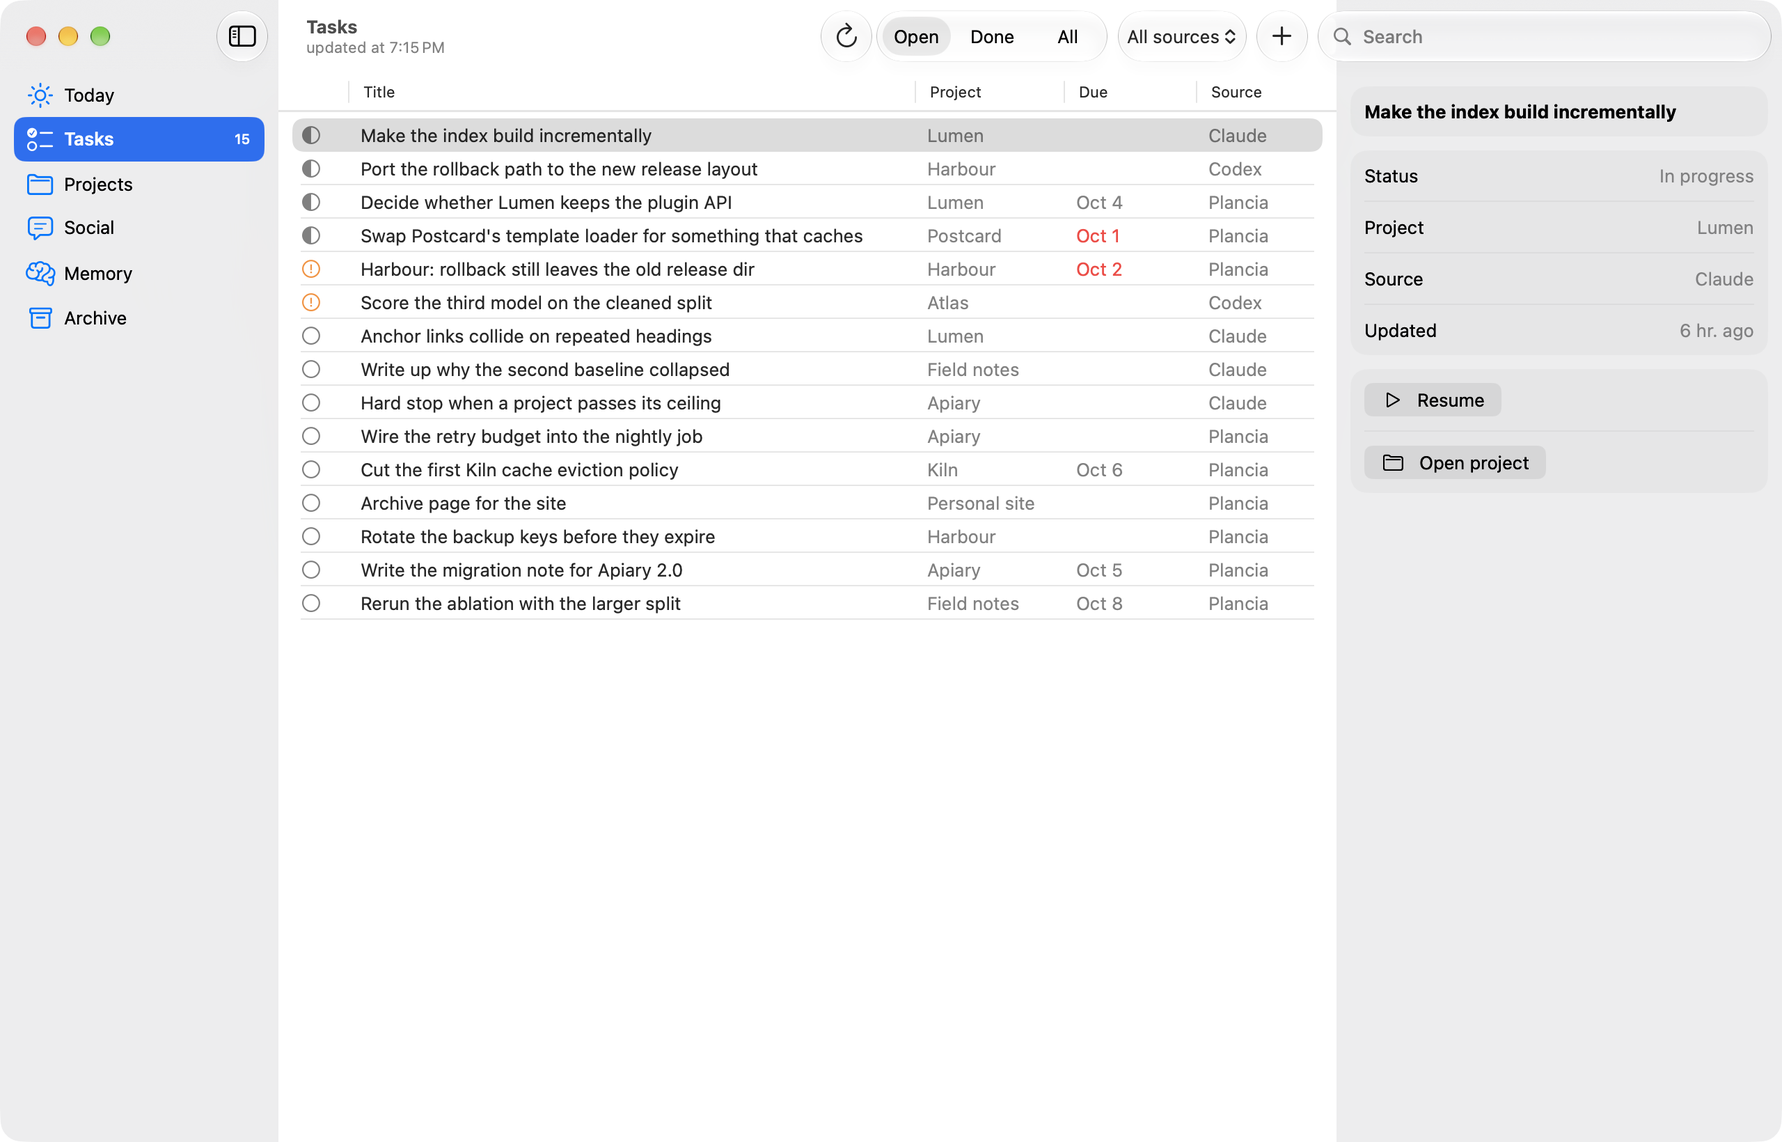
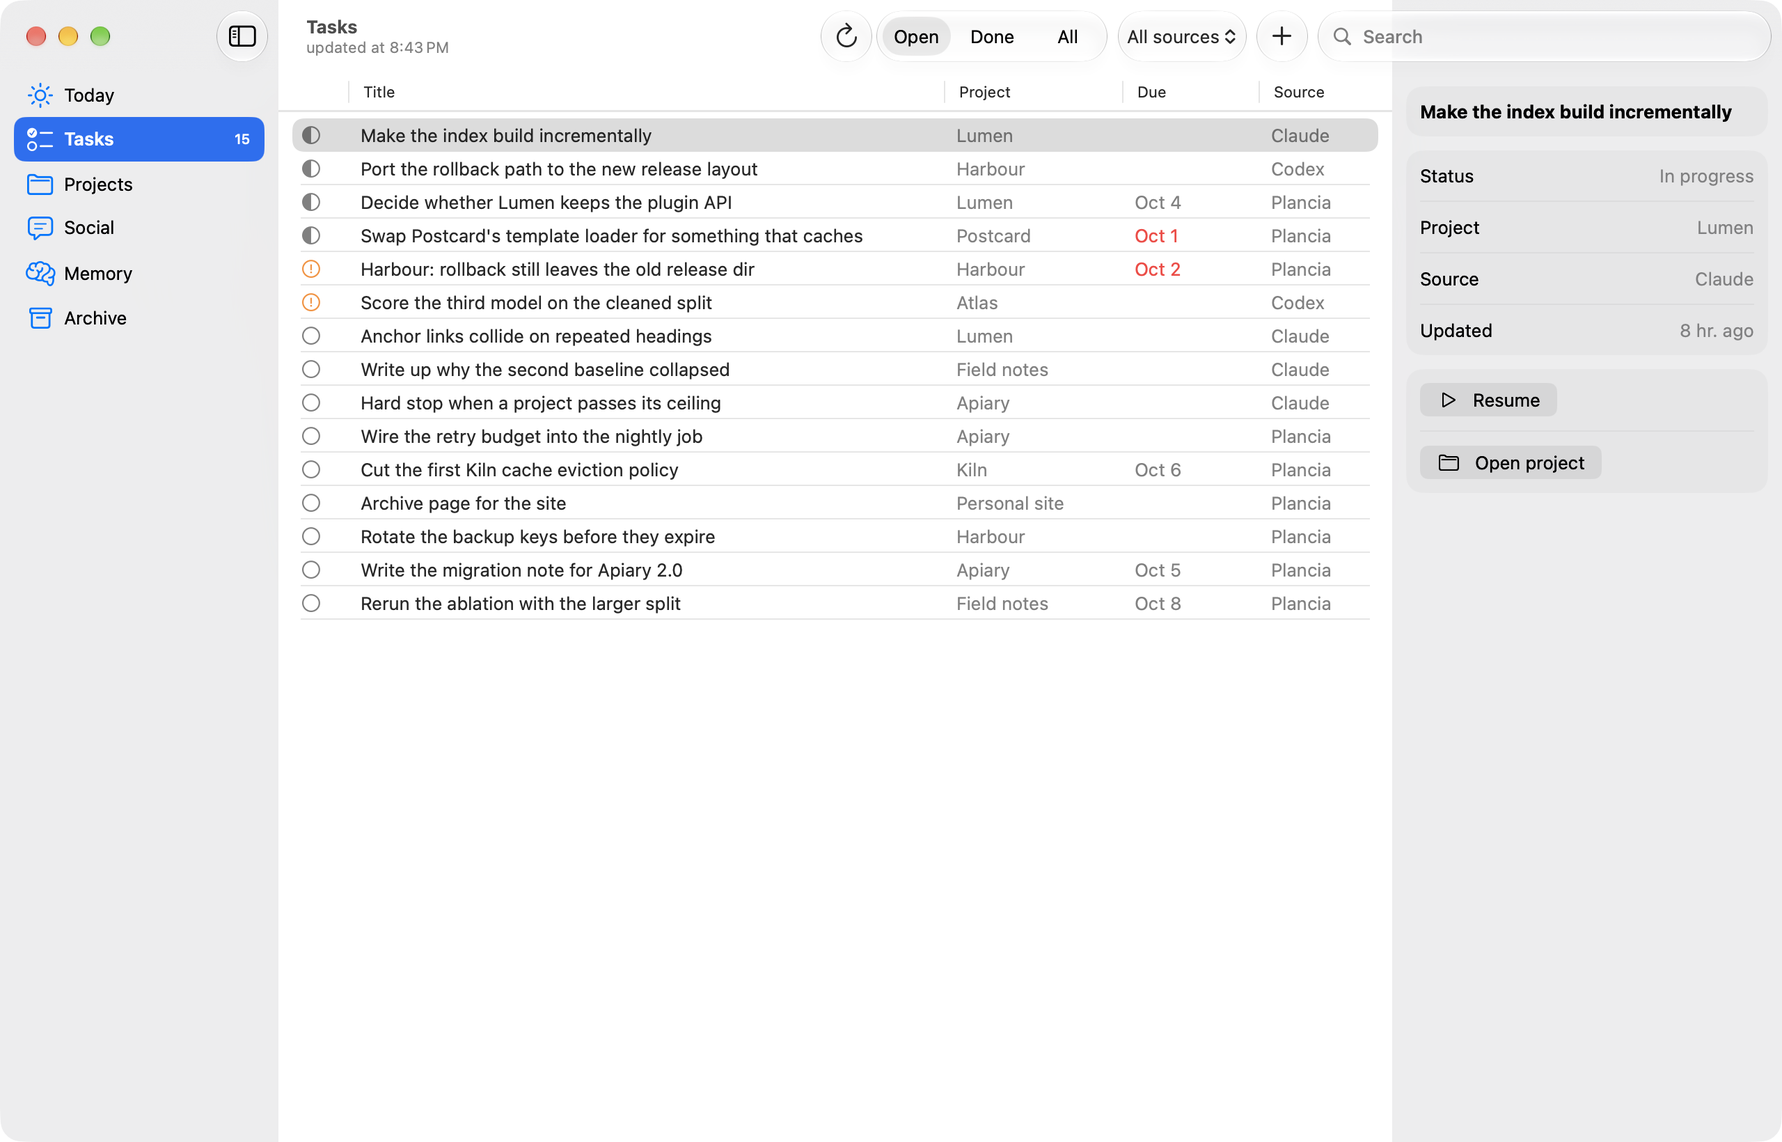
[23-LEGNO] Inspector solido in Legno, colonne che stanno a 125%, Inspector della Memoria non piu' fuori finestra
- Inspector: la superficie e' carta piena con la fascia in alto sul legno e i fili
  d'ottone (StileIspettore), verificata con istantanee a finestra attiva e non attiva,
  Legno chiaro e scuro, in Task, Memoria, Archivio, Social e Risultati; il tema Sistema
  non cambia.
- Colonne di Task e Archivio: con la finestra al minimo (900 punti, anche a 125%) l'ultima
  colonna finiva sotto l'Inspector. Inspector ideale 280 (260 in Archivio), minimi delle
  colonne ridotti; verificato a 900 punti e a 125% con la finestra a 1125.
- Memoria, Mappa: ViewThatFits della barra sotto la mappa portava come larghezza
  preferita quella della prima scelta (oltre 800 punti) e spingeva l'Inspector fuori
  dalla finestra a 125%; con la finestra sotto i 1100 punti mandava AppKit in un giro di
  vincoli che chiudeva l'app. Ora idealWidth piccolo e un'ultima scelta senza la frase.
- Risultati: la vista vecchia cancellava il dettaglio pubblicato dalla nuova (onDisappear
  dopo onAppear) e l'Inspector restava chiuso; il dettaglio ha un proprietario.
- Istantanee: --inattiva, --albero, --primo-risultato aspetta il dettaglio.
- mac/Prove/controlli_sorgenti.py: margine per colonna 18 punti e larghezza disponibile
  calcolata sulla finestra minima, stile dell'Inspector, proprietario del dettaglio,
  barra della Mappa (5 controlli rossi prima, verdi dopo). Mac: 135.
- docs/mac-task.png e site/img/mac-task.png rifatti (Inspector piu' stretto).

diff --git a/mac/Sources/Guscio/Istantanee.swift b/mac/Sources/Guscio/Istantanee.swift
@@ -6,6 +6,9 @@
 //       [--larghezza 1280] [--altezza 820]   (punti; il minimo della finestra vale sempre)
 //       [--stile sistema|legno] [--testo 0...6]   (il passo della dimensione del testo, 3 = reale)
 //       [--prova-tasti]  premi ⌘+ ⌘- ⌘0 ⌘= veri e stampa il passo dopo ognuno (senza --testo)
+//       [--inattiva]  fotografa la finestra NON attiva (come quando si lavora in un'altra app)
+//       [--primo-risultato]  nella Ricerca sceglie la prima riga: si vede l'Inspector dei Risultati
+//       [--albero]  stampa l'albero delle viste di AppKit (righe ALB), per capire chi dipinge cosa
 //       [--prova-clic]  clic finti sulle righe di Task e Progetti: dice se colpiscono la riga giusta
 //
 // Apre la finestra a 1280x820, visita ogni sezione (con l'Inspector di un elemento scelto
@@ -82,6 +85,13 @@ enum Istantanee {
             try? await Task.sleep(nanoseconds: 500_000_000)
         }
         FileHandle.standardOutput.write(Data("finestra attiva: \(NSApp.isActive && w.isKeyWindow)\n".utf8))
+        // --inattiva: fotografa la finestra NON attiva (semafori grigi, vetro spento), per vedere
+        // come stanno le superfici quando l'utente lavora in un'altra app
+        if CommandLine.arguments.contains("--inattiva") {
+            NSApp.deactivate()
+            try? await Task.sleep(nanoseconds: 800_000_000)
+            FileHandle.standardOutput.write(Data("finestra inattiva: \(!NSApp.isActive && !w.isKeyWindow)\n".utf8))
+        }
 
         let a = Archivio.condiviso
         var scritti: [String] = []
@@ -123,6 +133,20 @@ enum Istantanee {
             }
         }
 
+        if CommandLine.arguments.contains("--albero") {
+            a.vai(.task); await a.carica(.task)
+            if let v = a.lavagna?.voci?.first(where: { $0.stato != "fatto" }) { a.taskScelto = v.identita }
+            try? await Task.sleep(nanoseconds: 1_500_000_000)
+            func giu(_ v: NSView, _ liv: Int) {
+                let n = String(describing: type(of: v))
+                var extra = ""
+                if let e = v as? NSVisualEffectView { extra = " MATERIAL=\(e.material.rawValue) stato=\(e.state.rawValue) blend=\(e.blendingMode.rawValue) emph=\(e.isEmphasized)" }
+                let f = v.convert(v.bounds, to: nil)
+                FileHandle.standardOutput.write(Data("ALB \(String(repeating: " ", count: liv))\(n) x=\(Int(f.minX)) y=\(Int(f.minY)) w=\(Int(f.width)) h=\(Int(f.height)) hid=\(v.isHidden)\(extra)\n".utf8))
+                for s in v.subviews { giu(s, liv + 1) }
+            }
+            if let cv = w.contentView?.superview { giu(cv, 0) }
+        }
         if CommandLine.arguments.contains("--prova-tasti") { await provaTasti(w) }
         if CommandLine.arguments.contains("--prova-clic") { await provaClic(w, a, scatta) }
 
@@ -133,6 +157,14 @@ enum Istantanee {
         a.avviaRicerca()
         for _ in 0..<50 where a.ricercaInCorso || a.risultatiPer != parola {
             try? await Task.sleep(nanoseconds: 100_000_000)
+        }
+        // con --primo-risultato la riga scelta pubblica il suo dettaglio e l'Inspector si apre: si
+        // aspetta che ci sia, invece di fotografare a caso un momento prima
+        if CommandLine.arguments.contains("--primo-risultato") {
+            for _ in 0..<60 where ControlliVista.condiviso.dettaglioRisultato == nil {
+                try? await Task.sleep(nanoseconds: 100_000_000)
+            }
+            FileHandle.standardOutput.write(Data("risultato: dettaglio pubblicato \(ControlliVista.condiviso.dettaglioRisultato != nil)\n".utf8))
         }
         await scatta("ricerca")
         a.azzeraRicerca()

diff --git a/mac/Sources/Viste/Archivio.swift b/mac/Sources/Viste/Archivio.swift
@@ -208,28 +208,28 @@ struct VistaArchivio: View {
                     TableColumn(tr("Quando", "When"), value: \.quando) { r in
                         Text(FormatoArch.quando(r.quando)).foregroundStyle(.secondary).lineLimit(1)
                     }
-                    .width(min: 92, ideal: 96)
+                    .width(min: 80, ideal: 88)
                     TableColumn(tr("Titolo", "Title"), value: \.titolo) { r in
                         Text(r.titolo).lineLimit(1)
                     }
-                    .width(min: 70, ideal: 420)
+                    .width(min: 48, ideal: 420)
                     TableColumn(tr("Progetto", "Project"), value: \.progetto) { r in
                         Text(r.progetto).foregroundStyle(.secondary).lineLimit(1)
                     }
-                    .width(min: 60, ideal: 72)
+                    .width(min: 50, ideal: 64)
                     TableColumn(tr("Agente", "Agent"), value: \.agente) { r in
                         Text(FormatoArch.agente(r.agente)).foregroundStyle(.secondary)
                     }
-                    .width(min: 56, ideal: 60)
+                    .width(min: 46, ideal: 56)
                     TableColumn(tr("Durata", "Length"), value: \.durata) { r in
                         Text(FormatoArch.durata(r.durata)).foregroundStyle(.secondary)
                     }
-                    .width(min: 56, ideal: 60)
+                    .width(min: 46, ideal: 56)
                     TableColumn(tr("Messaggi", "Messages"), value: \.messaggi) { r in
                         Text(r.messaggi.formatted()).foregroundStyle(.secondary)
                             .frame(maxWidth: .infinity, alignment: .trailing)
                     }
-                    .width(min: 62, ideal: 66)
+                    .width(min: 50, ideal: 58)
                 }
                 .alternatingRowBackgrounds(.disabled)
             }
@@ -264,23 +264,23 @@ struct VistaArchivio: View {
                     TableColumn(tr("Quando", "When"), value: \.quando) { r in
                         Text(FormatoArch.quando(r.quando)).foregroundStyle(.secondary).lineLimit(1)
                     }
-                    .width(min: 92, ideal: 96)
+                    .width(min: 80, ideal: 88)
                     TableColumn(tr("Tipo", "Type"), value: \.tipo) { r in
                         Text(r.tipo).foregroundStyle(.secondary).lineLimit(1)
                     }
-                    .width(min: 84, ideal: 110)
+                    .width(min: 70, ideal: 100)
                     TableColumn(tr("Titolo", "Title"), value: \.titolo) { r in
                         Text(r.titolo).lineLimit(1)
                     }
-                    .width(min: 70, ideal: 380)
+                    .width(min: 48, ideal: 380)
                     TableColumn(tr("Progetto", "Project"), value: \.progetto) { r in
                         Text(r.progetto).foregroundStyle(.secondary).lineLimit(1)
                     }
-                    .width(min: 60, ideal: 72)
+                    .width(min: 50, ideal: 64)
                     TableColumn(tr("Origine", "Origin"), value: \.origine) { r in
                         Text(r.origine).foregroundStyle(.secondary).lineLimit(1)
                     }
-                    .width(min: 58, ideal: 72)
+                    .width(min: 50, ideal: 64)
                 }
                 .alternatingRowBackgrounds(.disabled)
             }

diff --git a/mac/Sources/Viste/MemoriaMappa.swift b/mac/Sources/Viste/MemoriaMappa.swift
@@ -672,7 +672,12 @@ struct VistaMappa: View {
     // MARK: pezzi sotto il disegno
 
     /// La barra sotto la mappa: i gruppi (un clic li inquadra), cosa vogliono dire i colori, a
-    /// destra il livello e lo zoom. Se la larghezza non basta i due gruppi vanno uno sopra l'altro.
+    /// destra il livello e lo zoom. Se la larghezza non basta i due gruppi vanno uno sopra l'altro,
+    /// e se non basta nemmeno cosi' la legenda perde la frase in fondo. L'ultima scelta deve
+    /// stare in poco. Misurato: la larghezza ideale della barra (piu' di 800 punti) faceva da
+    /// larghezza preferita di tutta la colonna, e a 125% o con la finestra stretta spingeva
+    /// l'Inspector fuori dalla finestra (e, con la finestra sotto i 1100 punti, mandava AppKit in
+    /// un giro di vincoli che chiudeva l'app).
     private func barra(_ info: InfoGrafo) -> some View {
         VStack(spacing: 6) {
             gruppi(info)
@@ -686,7 +691,14 @@ struct VistaMappa: View {
                     legenda(info)
                     controlli
                 }
+                VStack(alignment: .leading, spacing: 8) {
+                    legenda(info, frase: false)
+                    controlli
+                }
             }
+            // La larghezza ideale di ViewThatFits e' quella della prima scelta (oltre 800 punti):
+            // la colonna la prendeva per preferita e spingeva l'Inspector fuori dalla finestra.
+            .frame(minWidth: 0, idealWidth: 300, maxWidth: .infinity, alignment: .leading)
         }
         .padding(.horizontal, 12)
         .padding(.vertical, 8)
@@ -721,7 +733,7 @@ struct VistaMappa: View {
         .frame(height: 24)
     }
 
-    private func legenda(_ info: InfoGrafo) -> some View {
+    private func legenda(_ info: InfoGrafo, frase: Bool = true) -> some View {
         let presenti = TipoMemoria.allCases.filter { t in info.tipi.contains(t) }
         return HStack(spacing: 12) {
             ForEach(presenti, id: \.self) { t in
@@ -733,9 +745,11 @@ struct VistaMappa: View {
                 .font(.caption)
                 .foregroundStyle(.secondary)
             }
-            Text(tr("il colore è il tipo, l'area è il gruppo", "colour is the type, the area is the group"))
-                .font(.caption)
-                .foregroundStyle(.tertiary)
+            if frase {
+                Text(tr("il colore è il tipo, l'area è il gruppo", "colour is the type, the area is the group"))
+                    .font(.caption)
+                    .foregroundStyle(.tertiary)
+            }
         }
         .fixedSize()
         .allowsHitTesting(false)

diff --git a/mac/Sources/Viste/Risultati.swift b/mac/Sources/Viste/Risultati.swift
@@ -179,6 +179,8 @@ struct VistaRisultati: View {
 
     @State private var scelto: String?
     @State private var espansi: Set<TipoRis> = []
+    /// Distingue questa istanza della vista dalle altre (vedi onDisappear).
+    @State private var identitaIstanza = UUID()
 
     private var q: String { archivio.ricerca.trimmed }
 
@@ -410,7 +412,16 @@ struct VistaRisultati: View {
         .onChange(of: tutte.first(where: { $0.id == scelto }), initial: true) { _, corrente in
             pubblica(corrente)
         }
-        .onDisappear { ControlliVista.condiviso.dettaglioRisultato = nil }
+        // chi se ne va toglie il dettaglio solo se e' ancora il suo: SwiftUI puo' far comparire la
+        // vista nuova prima di far sparire la vecchia (misurato nelle istantanee: il dettaglio
+        // pubblicato dalla nuova veniva cancellato dalla vecchia e l'Inspector restava chiuso)
+        .onDisappear {
+            let c = ControlliVista.condiviso
+            if c.proprietarioDettaglio == nil || c.proprietarioDettaglio == identitaIstanza {
+                c.dettaglioRisultato = nil
+                c.proprietarioDettaglio = nil
+            }
+        }
         // solo nelle istantanee con --primo-risultato: sceglie la prima riga, per fotografare l'Inspector
         .onChange(of: tutte.first?.id, initial: true) { _, primo in
             if scelto == nil, let p = primo, Istantanee.attive,
@@ -448,7 +459,11 @@ struct VistaRisultati: View {
 
     private func pubblica(_ riga: RigaRis?) {
         let termini = risTermini(q)
-        ControlliVista.condiviso.dettaglioRisultato = riga.map { r in
+        let c = ControlliVista.condiviso
+        // una vista senza riga non cancella il dettaglio di un'altra istanza
+        if riga == nil, let p = c.proprietarioDettaglio, p != identitaIstanza { return }
+        c.proprietarioDettaglio = riga == nil ? nil : identitaIstanza
+        c.dettaglioRisultato = riga.map { r in
             AnyView(DettaglioRisultato(riga: r, termini: termini) { VistaRisultati.apri(r) })
         }
     }

diff --git a/mac/Sources/Guscio/Ispettore.swift b/mac/Sources/Guscio/Ispettore.swift
@@ -25,13 +25,19 @@ struct IspettoreFinestra: ViewModifier {
             .id(inRicerca ? "ricerca" : archivio.sezione.rawValue)
     }
 
-    /// Le larghezze di prima: Social e Memoria hanno un dettaglio piu' largo.
+    /// Le larghezze della colonna. Con la finestra al minimo (900 punti, anche a 125% perche' il
+    /// minimo scala col testo) barra laterale + Inspector lasciano alla tabella quello che resta:
+    /// con 320 di larghezza ideale restavano 380 punti e l'ultima colonna di Task e Archivio usciva
+    /// a destra, sotto l'Inspector. Con 280 (260 in Archivio, che ha sei colonne) ne restano 420
+    /// (440), e le colonne delle tabelle hanno minimi che ci stanno (Task.swift e Archivio.swift;
+    /// la prova e' mac/Prove/controlli_sorgenti.py: ogni colonna costa ~18 punti di margine).
     private var larghezze: (min: CGFloat, ideale: CGFloat, max: CGFloat) {
-        guard !inRicerca else { return (260, 320, 460) }
+        guard !inRicerca else { return (240, 280, 460) }
         switch archivio.sezione {
         case .social: return (280, 340, 480)
         case .memoria: return (280, 340, 480)
-        default: return (260, 320, 460)
+        case .archivio: return (240, 260, 460)
+        default: return (240, 280, 460)
         }
     }
 

diff --git a/mac/Sources/Viste/Task.swift b/mac/Sources/Viste/Task.swift
@@ -105,17 +105,17 @@ struct VistaTask: View {
                     TableColumn(tr("Titolo", "Title"), value: \.titolo) { r in
                         Text(r.titolo).lineLimit(1)
                     }
-                    .width(min: 120, ideal: 420)
+                    .width(min: 90, ideal: 420)
                     TableColumn(tr("Progetto", "Project"), value: \.progetto) { r in
                         Text(r.progetto).foregroundStyle(.secondary).lineLimit(1)
                     }
-                    .width(min: 90, ideal: 120)
+                    .width(min: 72, ideal: 120)
                     TableColumn(tr("Scadenza", "Due"), value: \.scadenzaOrd) { r in scadenza(r) }
-                        .width(min: 78, ideal: 90)
+                        .width(min: 66, ideal: 90)
                     TableColumn(tr("Fonte", "Source"), value: \.fonte) { r in
                         Text(r.fonteNome).foregroundStyle(.secondary)
                     }
-                    .width(min: 76, ideal: 80)
+                    .width(min: 66, ideal: 80)
                 }
                 // le righe a strisce sotto l'ultima sembrano un fantasma: niente
                 .alternatingRowBackgrounds(.disabled)

diff --git a/mac/Sources/Guscio/Controlli.swift b/mac/Sources/Guscio/Controlli.swift
@@ -31,6 +31,8 @@ final class ControlliVista {
     var provaAperta = false
     // Ricerca: il dettaglio della riga scelta, costruito dalla vista Risultati
     var dettaglioRisultato: AnyView?
+    /// Quale istanza di VistaRisultati ha pubblicato il dettaglio (chi non e' il proprietario non lo cancella).
+    var proprietarioDettaglio: UUID?
 }
 
 extension Archivio {

diff --git a/mac/Prove/controlli_sorgenti.py b/mac/Prove/controlli_sorgenti.py
@@ -62,18 +62,57 @@ controlla("la legenda della mappa non e' piu' sovrapposta ai nodi",
           "overlay(alignment: .bottomLeading) { legenda" not in mappa and "private func barra(" in mappa)
 controlla("le etichette non lasciano piu' un vuoto fisso dove stava la legenda", "size.height - 150" not in mappa)
 
-# 4. le colonne delle tabelle non superano lo spazio accanto all'Inspector a 125% (1024 pt
-#    di layout, meno la barra laterale e l'Inspector: ~500)
-for rel in ("Viste/Task.swift", "Viste/Archivio.swift"):
+# 4. le colonne delle tabelle stanno accanto all'Inspector con la finestra al minimo (900 punti
+#    di layout, anche a 125%: il minimo scala col testo), meno la barra laterale (200 ideale) e la
+#    larghezza ideale dell'Inspector di quella sezione (Guscio/Ispettore.swift). Ogni colonna costa
+#    ~18 punti di margine suo (misurato nelle istantanee a 900 punti: con 12 l'ultima colonna di
+#    Archivio finiva sotto l'Inspector).
+ispettore = leggi("Guscio/Ispettore.swift")
+larg = re.search(r"private var larghezze.*?\n    \}\n", ispettore, re.S)
+larg = larg.group(0) if larg else ""
+def ideale_ispettore(sezione):
+    m = re.search(r"case \.%s: return \((\d+), (\d+), (\d+)\)" % sezione, larg) or \
+        re.search(r"default: return \((\d+), (\d+), (\d+)\)", larg)
+    return int(m.group(2)) if m else 999
+FINESTRA_MINIMA, BARRA_IDEALE, MARGINE_COLONNA = 900, 200, 18
+for rel, sezione in (("Viste/Task.swift", "task"), ("Viste/Archivio.swift", "archivio")):
     testo = leggi(rel)
+    disponibile = FINESTRA_MINIMA - BARRA_IDEALE - ideale_ispettore(sezione)
     blocchi = re.split(r"\bTable\(", testo)[1:]
     for k, b in enumerate(blocchi, 1):
         b = b.split("alternatingRowBackgrounds")[0]
         minimi = [int(m) for m in re.findall(r"\.width\(min: (\d+)", b)] + [int(m) for m in re.findall(r"\.width\((\d+)\)", b)]
-        # ogni colonna ha ~12 pt di margine suo: minimi + margini devono stare in ~500 pt
-        totale = sum(minimi) + 12 * len(minimi)
-        controlla("%s, tabella %d: minimi + margini delle colonne (%d) stanno accanto all'Inspector a 125%%"
-                  % (rel.split("/")[-1], k, totale), totale <= 500)
+        totale = sum(minimi) + MARGINE_COLONNA * len(minimi)
+        controlla("%s, tabella %d: minimi + margini delle colonne (%d) stanno nei %d punti accanto all'Inspector"
+                  % (rel.split("/")[-1], k, totale, disponibile), totale <= disponibile)
+
+# 4b. l'Inspector di Legno e' una superficie piena: carta calda, fascia in alto sul legno, fili
+#     d'ottone; nessun materiale di sistema che lasci vedere il fondo grigio
+stile = leggi("Tema/Stile.swift")
+m = re.search(r"struct StileIspettore: ViewModifier \{(.*?)\n\}\n", stile, re.S)
+corpo = m.group(1) if m else ""
+controlla("l'Inspector ha il suo stile Legno e il contenuto lo usa", bool(corpo) and ".stileIspettore()" in leggi("Guscio/Ispettore.swift"))
+controlla("l'Inspector di Legno: carta piena, nessun materiale di sistema, nessuna trasparenza",
+          ".background(p.carta" in corpo and "Material" not in corpo and ".opacity(" not in corpo)
+controlla("l'Inspector di Legno: fascia in alto sul legno e fili d'ottone sopra e a sinistra",
+          "SuperficieLegno(scuro: cartaScura).ignoresSafeArea()" in corpo
+          and "FiloOttone()" in corpo and "FiloOttoneVerticale()" in corpo)
+
+# 4c. il dettaglio dei Risultati ha un proprietario: la vista che se ne va (SwiftUI la fa sparire
+#     DOPO aver fatto comparire la nuova) non cancella il dettaglio pubblicato dalla nuova
+ris = leggi("Viste/Risultati.swift")
+dis = re.search(r"\.onDisappear \{(.*?)\n        \}", ris, re.S)
+controlla("Risultati: il dettaglio per l'Inspector ha un proprietario (la vista vecchia non lo cancella)",
+          "identitaIstanza" in ris and "proprietarioDettaglio" in leggi("Guscio/Controlli.swift")
+          and bool(dis) and "proprietarioDettaglio" in dis.group(1) and "identitaIstanza" in dis.group(1))
+
+# 4d. la barra sotto la mappa non fa da larghezza preferita di tutta la colonna: ViewThatFits porta
+#     la larghezza ideale della prima scelta (>800 punti) e spingeva l'Inspector fuori dalla finestra
+bm = re.search(r"private func barra\(.*?\n    \}\n", mappa, re.S)
+bm = bm.group(0) if bm else ""
+ideal = re.search(r"\.frame\(minWidth: 0, idealWidth: (\d+), maxWidth: \.infinity", bm)
+controlla("Mappa: la barra ha una larghezza ideale piccola e un'ultima scelta senza la frase della legenda",
+          bool(ideal) and int(ideal.group(1)) <= 400 and "legenda(info, frase: false)" in bm)
 
 # 5. i collegamenti nel Legno sono d'ottone: nessun buttonStyle(.link) fuori dal modificatore
 fuori = []

diff --git a/docs/note-2.0.0.md b/docs/note-2.0.0.md
@@ -280,7 +280,7 @@ what it cannot see is listed in the README.
 
 ## Tested
 
-4939 checks for the program, 422 for the dashboard, 130 for the Mac side (the data
+4939 checks for the program, 422 for the dashboard, 135 for the Mac side (the data
 layer against a fake server, source checks, the Map physics) and 134 for the Jarvis panel
 (every state in light and dark, the voice paths with Pocket and Kokoro fakes, the confirm
 card, Esc, the microphone and the server off). The colour contrast of the two styles has
